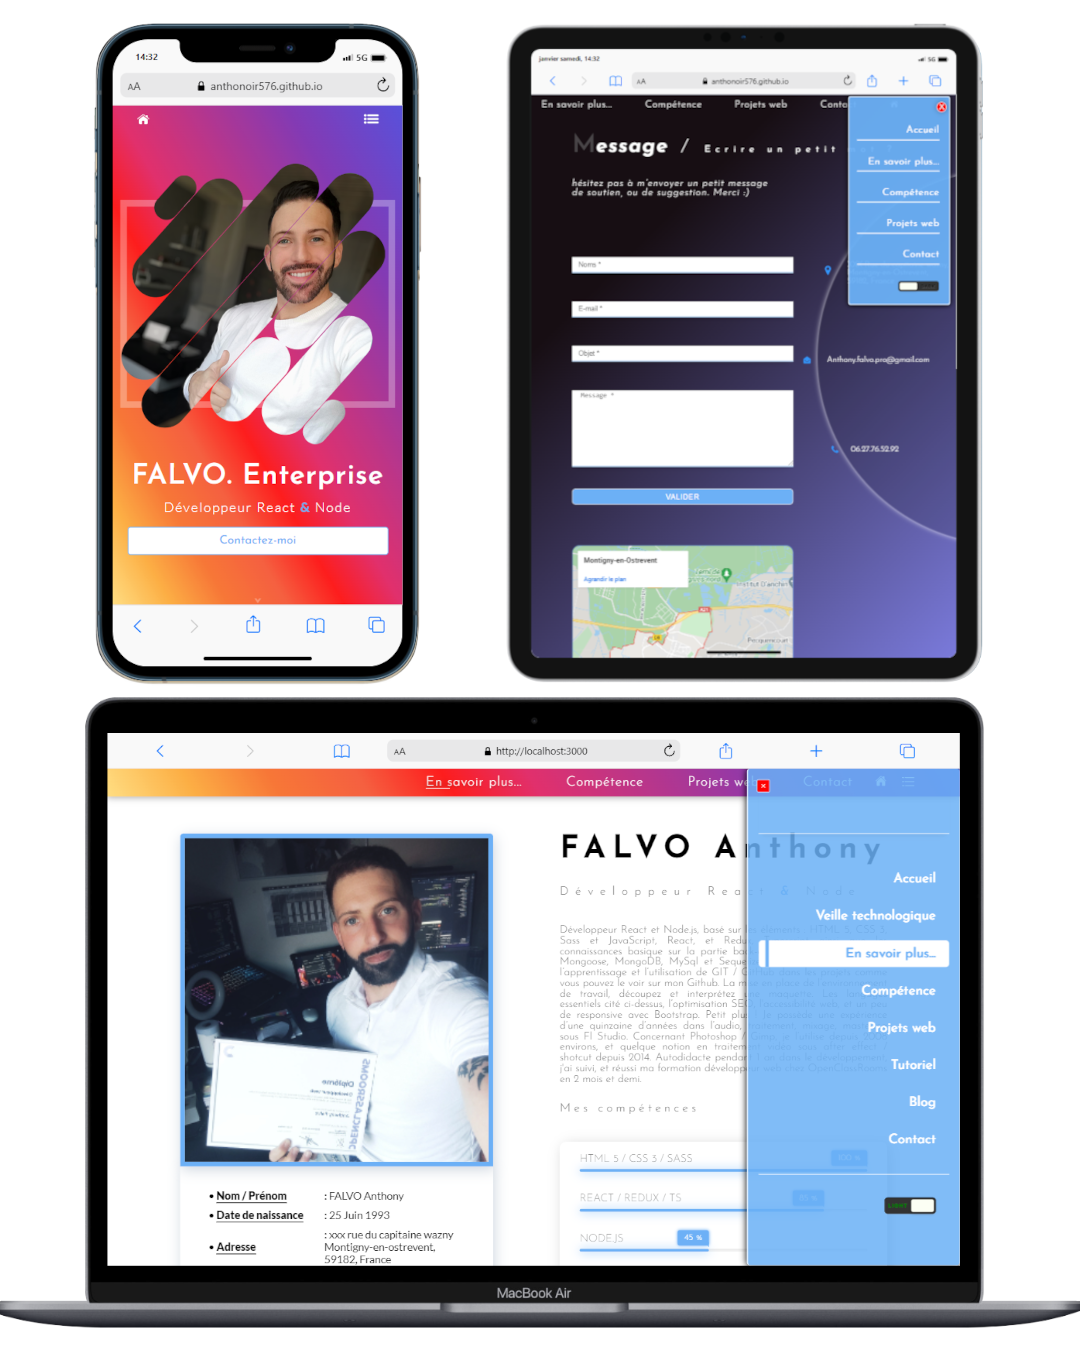
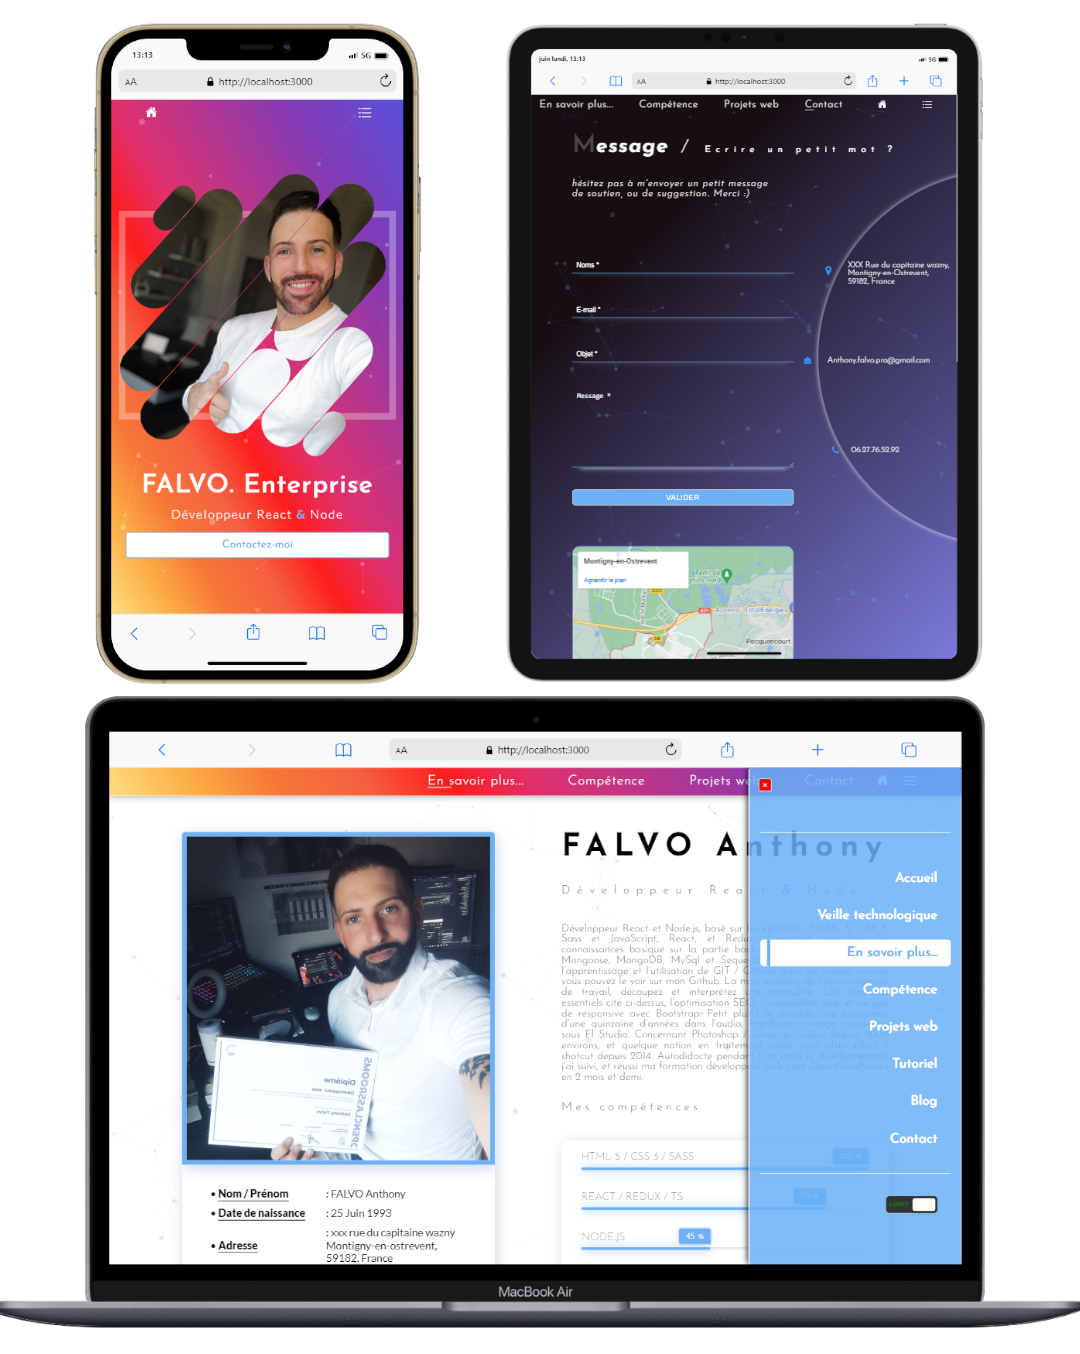
:DOCS: => maj docs readme

diff --git a/readme.md b/readme.md
@@ -16,15 +16,17 @@ En cours de réalisation. Il s'agit de la mise à jour d'un site crée il y a 1 
 - React terminal (terminal personnalisé)
 - Swiper (carousel)
 - React-menu (menu react)
+- react-tsparticles (effet particule en background)
 
 ## Version : 
 
 - Version 0.0.1   : 03 Mars     2021
 - Version 0.0.2   : 24 Décembre 2021
-- Version 0.0.3   : 27 Décembre 2021 [ Application fonctionnelle      ]
-- Version 0.0.4   : 07 Janvier  2022 [ Amélioration navigation        ]
-- Version 0.0.5   : 08 Janvier  2022 [ Ajout dark mode button         ] 
-- Version 0.0.6   : 23 Janvier  2022 [ Ajout Terminal (bêta)          ]
-- Version 0.0.7   : 05 Fevrier  2022 [ Terminal ok    (bêta)          ]  
-- Version 0.0.8   : 13 Mars     2022 [ Conversion TS ok               ]
-- Version 0.0.85  : 09 Avril    2022 [ MAJ Menu                       ]    
+- Version 0.0.3   : 27 Décembre 2021 [ Application fonctionnelle         ]
+- Version 0.0.4   : 07 Janvier  2022 [ Amélioration navigation           ]
+- Version 0.0.5   : 08 Janvier  2022 [ Ajout dark mode button            ] 
+- Version 0.0.6   : 23 Janvier  2022 [ Ajout Terminal (bêta)             ]
+- Version 0.0.7   : 05 Fevrier  2022 [ Terminal ok    (bêta)             ]  
+- Version 0.0.8   : 13 Mars     2022 [ Conversion TS ok                  ]
+- Version 0.0.85  : 09 Avril    2022 [ MAJ Menu                          ]
+- Version 0.1.0   : 06 Juin     2022 [ Première version sans back encore ]     
